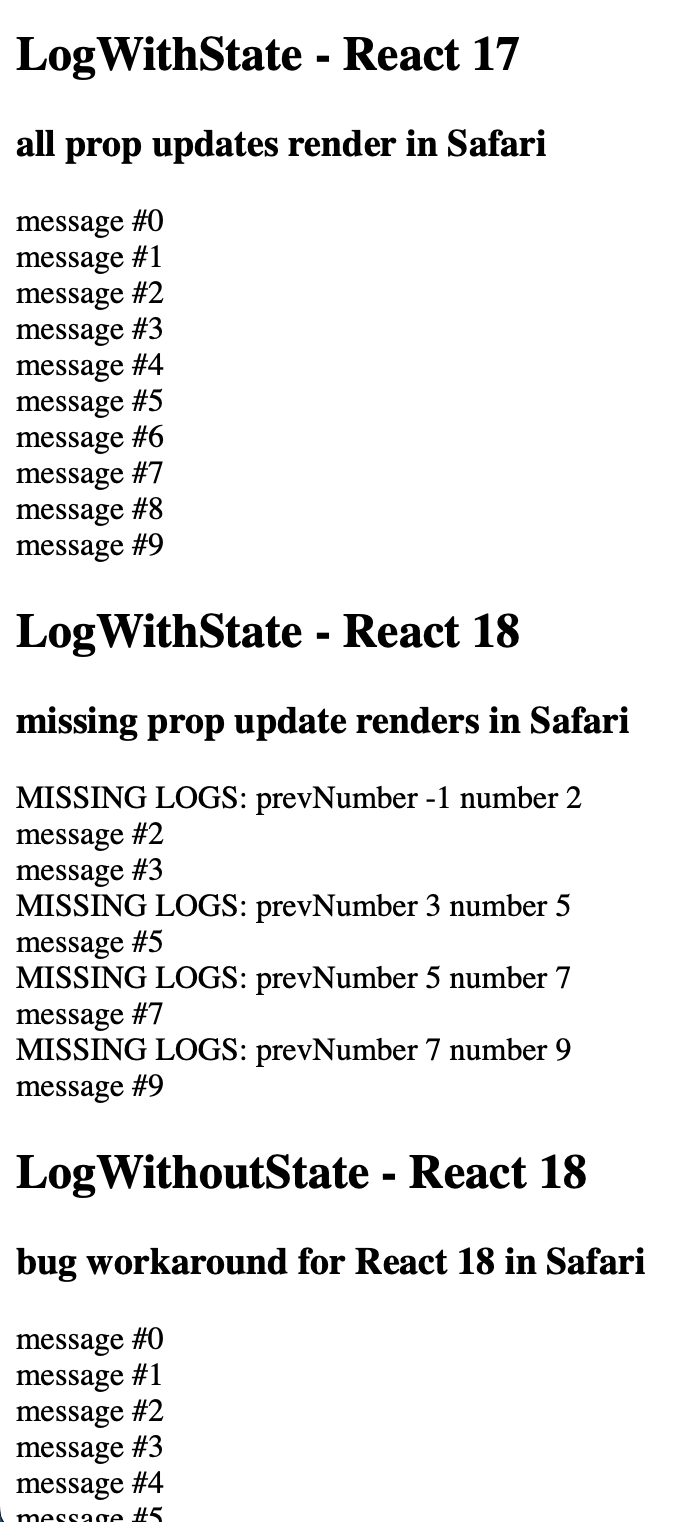
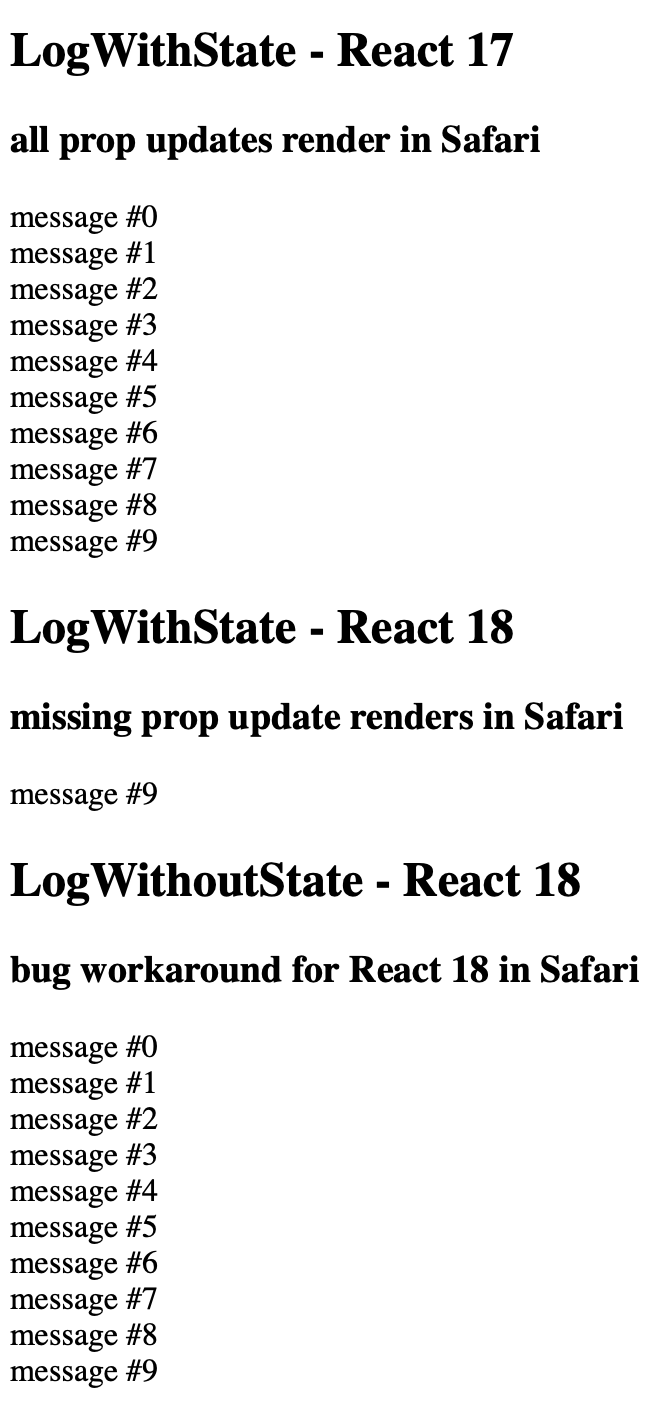
Make code and writeup shorter.

Changed region(s): [[0.0, 0.0, 0.961, 1.0], [0.8108, 0.7468, 0.8709, 0.7779]]

diff --git a/src/LogWithState.tsx b/src/LogWithState.tsx
@@ -10,15 +10,8 @@ export const LogWithState: React.FC<{ log: LogProp }> = ({ log }) => {
   const { message, number, title, subtitle } = log;
   const [prevMessages, setMessages] = React.useState<string[]>([]);
   const [prevNumber, setNumber] = React.useState(-1);
-  const messages = [];
-  if (number !== prevNumber && number !== prevNumber + 1) {
-    const errorMessage =
-      "MISSING LOGS: prevNumber " + prevNumber + " number " + number;
-    messages.push(errorMessage);
-  }
-  messages.push(message);
   if (number !== prevNumber) {
-    const newMessages = prevMessages.concat(messages);
+    const newMessages = prevMessages.concat(message);
     setMessages(newMessages);
     setNumber(number);
   }

diff --git a/README.md b/README.md
@@ -1,7 +1,7 @@
 # Potential Bug in React 18 with Safari
 
-This is either a demonstration of a bug with React 18 in Safari, or a demonstration of how I don't
-quite understand React rendering.
+This is either a demonstration of a bug with React 18 (18.2.0) in Safari, or a demonstration of
+how I don't quite understand React rendering.
 
 It seems that React 18 in Safari is not always rendering every render call, even if the props have
 changed. Is this a bug?
@@ -11,32 +11,33 @@ very trimmed down demonstration of the bug.
 
 The game displays a text log of the players' actions. These messages get sent from the server,
 usually one at a time. Sometimes these messages arrive in quick succession, ms apart. I don't have
-the game server send all of the log messages every time, only the latest message.
+the game server send all of the log messages every time, only the latest message. So the log needs
+to retain previous messages to have them continue to be displayed to the user.
 
-In this app there are two Components.
+In this bug demonstration app there are two Components:
 
-- `LogWithState` is the simplification of the Log from my game. It uses state to remember previous
-  messages and then loops through all the messages to display them.
-- `LogWithoutState` takes an array of messages and loops through and displays them all. This is a
-  workaround solution for React 18 rendering in Safari.
+- [LogWithState](src/LogWithState.tsx) is the simplification of the Log from my game. It uses
+  state to remember previous messages and then loops through all the messages to display them.
+- [LogWithoutState](src/LogWithoutState.tsx) takes an array of messages and loops through and
+  displays them all. This is a workaround solution for React 18 rendering in Safari. For this to
+  work, the app remembers the list of previous messages in Typescript not in the React component.
 
-`LogWithState` uses `useState` to record the full list of messages in the `Log` component. This
-worked fine with React17's render call. When I upgraded to React18 and `createRoot` I noticed that
-log messages were sometimes missing. Recently I discovered that this is not reproducible in Firefox
-or Chrome, but is easily reproducible in Safari 16.4 and Safari Mobile iOS 16.4.1
-(the latest versions as of 2023-04-21) both on my devices and on at least one other device.
+[LogWithState](src/LogWithState.tsx) uses `useState` to record the full list of messages in the
+`Log` component. This worked fine with React17's render call. When I upgraded to React18 and
+`createRoot` I noticed that log messages were sometimes missing. Recently I discovered that this is
+not reproducible in Firefox or Chrome, but is easily reproducible in Safari 16.4 and Safari Mobile
+iOS 16.4.1 (the latest versions as of 2023-04-21) both on my devices and on at least one other device.
 
 The html for this demo has two root nodes for react. We use `ReactDOM` from React 17 to render into
 `react17-root`. We use `createRoot` and React 18's `render` to render into `react18-root`.
 
-In the React 17 dom we render `LogWithState` to demonstrate that this works fine.
+In the React 17 dom we render [LogWithState](src/LogWithState.tsx) to demonstrate that this works fine.
 
-In the React 18 dom, we render two different components. `LogWithState` and `LogWithoutState`.
+In the React 18 dom, we render two different components. [LogWithState](src/LogWithState.tsx) and [LogWithoutState](src/LogWithoutState.tsx).
 
 As you can hopefully see for yourself, "LogWithState - React 17" and "LogWithoutState - React 18"
-display all 10 of the log messages. "LogWithState - React 18" should be missing some of the logs and
-display a message "MISSING LOGS" at some (random) points. Below is an example screenshot on my
-machine:
+display all 10 of the log messages. "LogWithState - React 18" should be missing some of the logs.
+Below is an example screenshot on my machine:
 
 ![screenshot of the bug in action](./bug-screenshot.png)
 
